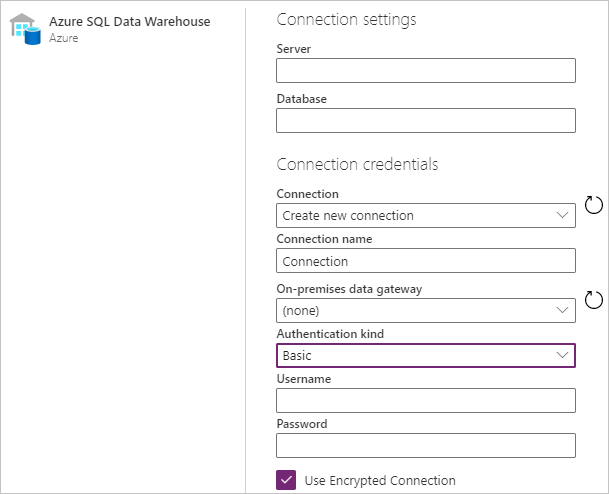
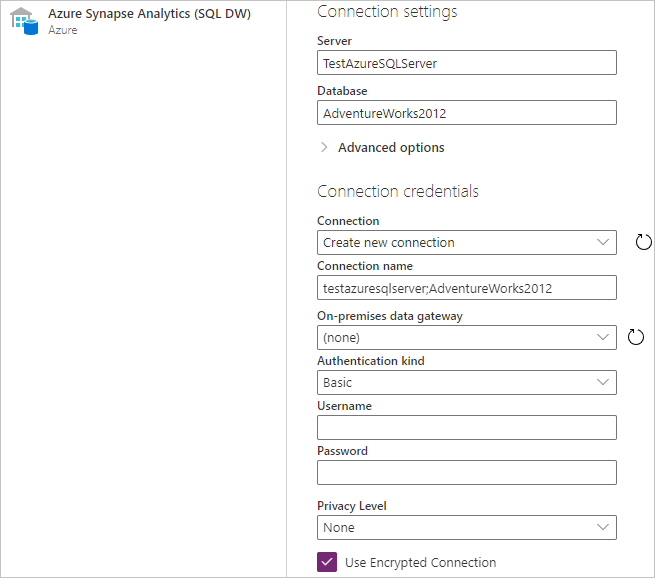
Updated to Azure Synapse Analytics

diff --git a/powerquery-docs/Connectors/AzureSQLDataWarehouse.md b/powerquery-docs/Connectors/AzureSQLDataWarehouse.md
@@ -1,5 +1,5 @@
 ---
-title: Power Query Azure SQL Data Warehouse connector
+title: Power Query Azure Synapse Analytics (SQL DW) connector
 description: Provides basic information, prerequisites, and supported capabilities for the connector, and instructions on how to connect to your database using the connector.
 author: DougKlopfenstein
 ms.service: powerquery
@@ -9,24 +9,24 @@ ms.author: v-douklo
 LocalizationGroup: reference
 ---
 
-# Azure SQL Data Warehouse
+# Azure Synapse Analytics (SQL DW)
  
 ## Summary
- 
-Release State: General Availability
 
-Products: Power BI Desktop, Power BI Service (Enterprise Gateway), Dataflows in PowerBI.com (Enterprise Gateway), Dataflows in PowerApps.com (Enterprise Gateway), Excel
-
-Authentication Types Supported: Windows (Power BI Desktop, Excel, online service with gateway), Database (Power BI Desktop, Excel), Microsoft Account (all), Basic (online service)
-
-Function Reference Documentation: [Sql.Database](https://docs.microsoft.com/powerquery-m/sql-database), [Sql.Databases](https://docs.microsoft.com/powerquery-m/sql-databases)
+| Item | Description |
+| ---- | ----------- |
+| Release State | General Availability |
+| Products | Power BI (Datasets)<br/>Power BI (Dataflows)<br/>Power Apps (Dataflows)<br/>Excel<br/>Dynamics 365 Customer Insights<br/>Analysis Services |
+| Authentication Types Supported | Windows (Power BI Desktop, Excel, online service with gateway)<br/>Database (Power BI Desktop, Excel)<br/>Microsoft Account (all)<br/>Basic (online service) |
+| Function Reference Documentation | [Sql.Database](https://docs.microsoft.com/powerquery-m/sql-database)<br/>[Sql.Databases](https://docs.microsoft.com/powerquery-m/sql-databases) |
+| | |
 
 >[!Note]
 > Some capabilities may be present in one product but not others due to deployment schedules and host-specific capabilities.
  
 ## Prerequisites
 
-By default, Power BI installs an OLE DB driver for Azure SQL Data Warehouse. However, for optimal performance, we recommend that the customer installs the [SQL Server Native Client](https://docs.microsoft.com/sql/relational-databases/native-client/applications/installing-sql-server-native-client?view=sql-server-ver15) before using the Azure SQL Data Warehouse connector. SQL Server Native Client 11.0 and SQL Server Native Client 10.0 are both supported in the latest version.
+By default, Power BI installs an OLE DB driver for Azure Synapse Analytics (SQL DW). However, for optimal performance, we recommend that the customer installs the [SQL Server Native Client](https://docs.microsoft.com/sql/relational-databases/native-client/applications/installing-sql-server-native-client?view=sql-server-ver15) before using the Azure Synapse Analytics (SQL DW) connector. SQL Server Native Client 11.0 and SQL Server Native Client 10.0 are both supported in the latest version.
 
  
 ## Capabilities Supported
@@ -39,45 +39,74 @@ By default, Power BI installs an OLE DB driver for Azure SQL Data Warehouse. How
     * Navigate using full hierarchy
     * SQL Server failover support
     
-## Connect to Azure SQL Data Warehouse
+## Connect to Azure Synapse Analytics (SQL DW) from Power Query Desktop
 
-To make the connection, take the following steps:
+To make the connection from Power Query Desktop:
  
-1. Select the **Azure SQL Data Warehouse** option in the connector selection.
+1. Select the **Azure Synapse Analytics (SQL DW)** option in the connector selection.
  
-2. If you're connecting from Power BI desktop or Excel:
+2.  In the **SQL Server database** dialog that appears, provide the name of the server and database (optional). In this example, `TestAzureSQLServer` is the server name and `AdventureWorks2012` is the database.
 
-   1. In the **SQL Server database** dialog that appears, provide the name of the server and database (optional). 
+    ![Enter Azure Synapse Analytics (SQL DW) connection](./media/azure-sql-database/signin.png)
 
-      ![Enter Azure SQL Data Warehouse connection](./media/azure-sql-database/signin.png)
+3. Select either the **Import** or **DirectQuery** data connectivity mode.
 
-   2. If you're connecting from Power BI Desktop, select either the **Import** or **DirectQuery** data connectivity mode.
+   You can also select and enter advanced options that will modify the connection query, such as a command timeout or a native query (SQL statement). More information: [Connect using advanced options](#connect-using-advanced-options)
 
-   3. Optionally, you may provide a command timeout and a [native query (SQL statement)](../native-database-query.md), as well as select whether or not you want to include relationship columns and navigate using full hierarchy. You can also enable SQL Server failover support. Once you're done, select **OK**.
+4. Select **OK**.
 
-   4. If this is the first time you're connecting to this database, select the authentication type, input your credentials, and select the level to apply the authentication settings to. Then select **Connect**.
+5. If this is the first time you're connecting to this database, select the authentication type, input your credentials, and select the level to apply the authentication settings to. Then select **Connect**.
 
-      ![Azure SQL Data Warehouse authentication](./media/azure-sql-database/enter-credentials.png)
+   ![Azure Synapse Analytics (SQL DW) authentication](./media/azure-sql-database/enter-credentials.png)
 
-      >[!Note]
-      >  If the connection is not encrypted, you'll be prompted with the following dialog.
+   For more information about authentication methods, go to [Authentication with a data source](../connectorauthentication.md).
 
-       ![Azure SQL Data Warehouse encryption support](../images/EncryptionWarning.png)
+   >[!Note]
+   >  If the connection is not encrypted, you'll be prompted with the following dialog.
 
-       Select **OK** to connect to the database by using an unencrypted connection, or follow these [instructions](https://docs.microsoft.com/sql/database-engine/configure-windows/enable-encrypted-connections-to-the-database-engine?view=sql-server-ver15) to set up encrypted connections to Azure SQL Data Warehouse.
+   ![Azure Synapse Analytics (SQL DW) encryption support](../images/EncryptionWarning.png)
 
-3. If you're connecting from an online service:
+   Select **OK** to connect to the database by using an unencrypted connection, or follow these [instructions](https://docs.microsoft.com/sql/database-engine/configure-windows/enable-encrypted-connections-to-the-database-engine?view=sql-server-ver15) to set up encrypted connections to Azure Synapse Analytics (SQL DW).
 
-   1. In the **Azure SQL Data Warehouse** dialog that appears, provide the name of the server and database.
+6. In **Navigator**, select the database information you want, then either select **Load** to load the data or **Transform Data** to continue transforming the data in Power Query Editor.
 
-      ![Enter Data Warehouse online connection](./media/azure-sql-database/dw-service-signin.png)
+## Connect to Azure Synapse Analytics (SQL DW) from Power Query Online
 
-   2. If this is the first time you're connecting to this database, select the authentication kind and input your credentials.
+To make the connection from Power Query Online:
 
-   3. If required, select the name of your on-premises data gateway.
+1. Select the **Azure Synapse Analytics (SQL DW)** option in the connector selection.
 
-   4. If the connection is not encrypted, clear the **Use Encrypted Connection** check box.
+2. In the **Azure Synapse Analytics (SQL DW)** dialog that appears, provide the name of the server and database (optional). In this example, `TestAzureSQLServer` is the server name and `AdventureWorks2012` is the database.
+
+   ![Enter Data Warehouse online connection](./media/azure-sql-database/dw-service-signin.png)
+
+   You can also select and enter advanced options that will modify the connection query, such as a command timeout or a native query (SQL statement). More information: [Connect using advanced options](#connect-using-advanced-options)
+
+3. If this is the first time you're connecting to this database, select the authentication kind and input your credentials.
+
+4. If required, select the name of your on-premises data gateway.
+
+5. If the connection is not encrypted, clear the **Use Encrypted Connection** check box.
  
-   4. Select **Next** to continue.
+6. Select **Next** to continue.
 
-4. In **Navigator**, select the data you require, then either load or transform the data.
+7. In **Navigator**, select the data you require, and then select **Transform data**.
+
+## Connect using advanced options
+
+Both Power Query Desktop and Power Query Online provide a set of advanced options that you can add to your query if needed. 
+
+![Display of advanced options available in Power Query Desktop](./media/azure-sql-database/advanced-options.png)
+
+The following table lists all of the advanced options you can set in Power Query Desktop and Power Query Online.
+
+| Advanced option | Description |
+| --------------- | ----------- |
+| Command timeout in minutes | If your connection lasts longer than 10 minutes (the default timeout), you can enter another value in minutes to keep the connection open longer. This option is only available in Power Query Desktop. |
+| SQL statement | For information, go to [Import data from a database using native database query](../native-database-query.md). |
+| Include relationship columns | If checked, includes columns that might have relationships to other tables. If this box is cleared, you won’t see those columns. |
+| Navigate using full hierarchy | If checked, the navigator displays the complete hierarchy of tables in the database you're connecting to. If cleared, the navigator displays only the tables whose columns and rows contain data. |
+| Enable SQL Server Failover support | If checked, when a node in the Azure SQL [failover group](https://docs.microsoft.com/azure/azure-sql/database/auto-failover-group-overview?tabs=azure-powershell) isn't available, Power Query moves from that node to another when failover occurs. If cleared, no failover occurs. |
+| | |
+
+Once you've selected the advanced options you require, select **OK** in Power Query Desktop or **Next** in Power Query Online to connect to your Azure SQL database.

diff --git a/powerquery-docs/Connectors/AzureSQLDatabase.md b/powerquery-docs/Connectors/AzureSQLDatabase.md
@@ -59,6 +59,8 @@ To connect to an Azure SQL database from Power Query Desktop, take the following
 
    ![Azure SQL database authentication](./media/azure-sql-database/enter-credentials.png)
 
+   For more information about authentication methods, go to [Authentication with a data source](../connectorauthentication.md).
+
    >[!Note]
    >  If the connection is not encrypted, you'll be prompted with the following message.
 
@@ -80,7 +82,7 @@ To connect to an Azure SQL database from Power Query Online, take the following 
 
    ![Enter the Azure SQL database online connection](./media/azure-sql-database/service-signin.png)
 
-   You can also select and enter advanced options that will modify the connection query, such as a command timeout or a native query (SQL statement). For information: [Connect using advanced options](#connect-using-advanced-options)
+   You can also select and enter advanced options that will modify the connection query, such as a command timeout or a native query (SQL statement). More information: [Connect using advanced options](#connect-using-advanced-options)
 
 3. If this is the first time you're connecting to this database, select the authentication kind and input your credentials.
 
@@ -107,8 +109,8 @@ The following table lists all of the advanced options you can set in Power Query
 | Command timeout in minutes | If your connection lasts longer than 10 minutes (the default timeout), you can enter another value in minutes to keep the connection open longer. This option is only available in Power Query Desktop. |
 | SQL statement | For information, go to [Import data from a database using native database query](../native-database-query.md). |
 | Include relationship columns | If checked, includes columns that might have relationships to other tables. If this box is cleared, you won’t see those columns. |
-| Navigate using full hierarchy | If checked, the Navigator displays the complete hierarchy of tables in the database you're connecting to. If cleared, Navigator displays only the tables whose columns and rows contain data. |
-| Enable SQL Server Failover support | If checked, when a node in the Azure SQL [failover group](https://docs.microsoft.com/azure/azure-sql/database/auto-failover-group-overview?tabs=azure-powershell) isn't available, Power Query moves from that node to another when failover occurs. If cleared, no failover will occur. |
+| Navigate using full hierarchy | If checked, the navigator displays the complete hierarchy of tables in the database you're connecting to. If cleared, the navigator displays only the tables whose columns and rows contain data. |
+| Enable SQL Server Failover support | If checked, when a node in the Azure SQL [failover group](https://docs.microsoft.com/azure/azure-sql/database/auto-failover-group-overview?tabs=azure-powershell) isn't available, Power Query moves from that node to another when failover occurs. If cleared, no failover occurs. |
 | | |
 
 Once you've selected the advanced options you require, select **OK** in Power Query Desktop or **Next** in Power Query Online to connect to your Azure SQL database.
